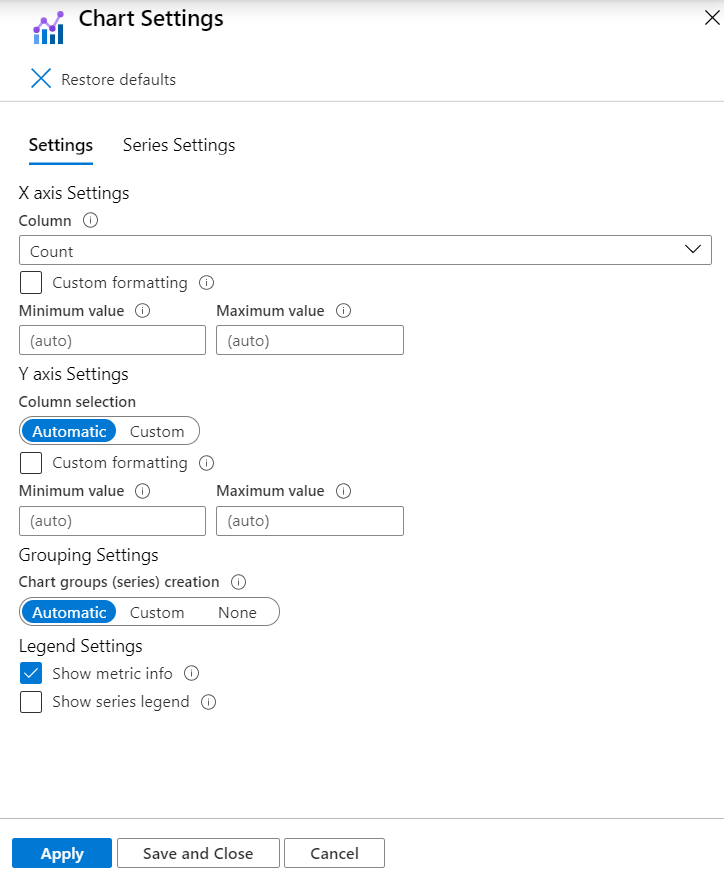
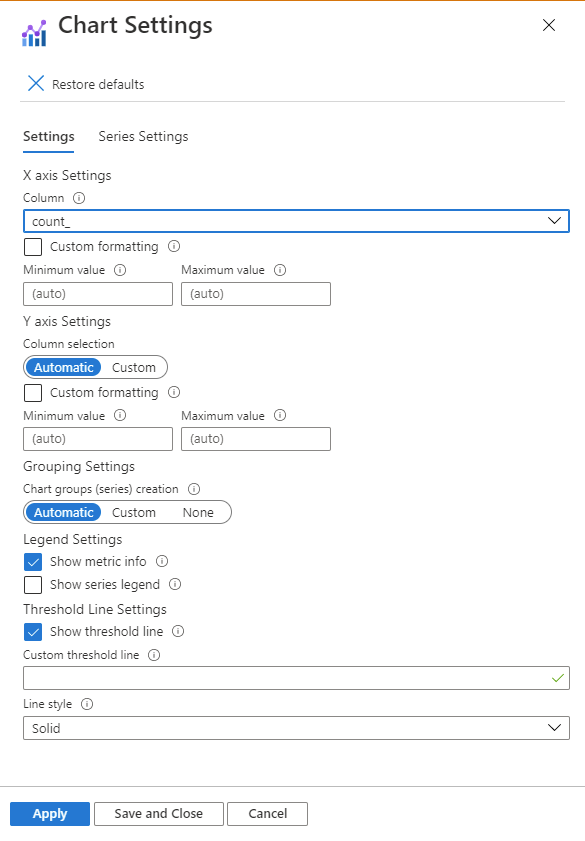
added documentation on threshold lines (#1366)
* added documentation on threshold lines

* updated the threshold documentation

* updated some wording

* cleaned up screen shots, updated wording

* added threshold settings to workbook schema

* replaced segmented bar chart screen shot with one including a threshold line

* edited out the query text

* added reference to threshold line on bar chart

* relative link?

* relative link fix

* relative link fix fix

diff --git a/Documentation/Visualizations/Chart.md b/Documentation/Visualizations/Chart.md
@@ -14,8 +14,8 @@ Workbooks supports charts for both analytics logs and metric data sources. Use t
 ### Segmented line chart
 ![Image showing a metric line chart for Storage transactions split by API name](../Images/MetricChart-Storage-Split-Line.png)
 
-### Segmented bar chart
-![Image showing a large metric bar chart for Storage transactions split by response type](../Images/MetricChart-Storage-Bar-Large.png)
+### Segmented bar chart ([Threshold Line enabled](#threshold-line))
+![Image showing a large metric bar chart for Storage transactions split by response type](../Images/MetricChart-Storage-Bar-Large-2.png)
 
 ### Scatter chart
 ![Image showing a metric scatter chart for Storage latency](../Images/MetricChart-Storage-Scatter.png)
@@ -35,6 +35,7 @@ The settings tab controls:
 * the axis settings, including which fields, custom formating that allows users to set the number formatting to the axis values, and custom ranges.
 * grouping settings, including which field, the limits before an "Others" group is created
 * legend settings, including showing metrics (series name, colors and numbers) at the bottom, and/or a legend (series names and colors)
+* threshold line settings
 
 ![Image showing chart settings series tab](../Images/ChartSettings.png)
 
@@ -42,6 +43,19 @@ The settings tab controls:
 The custom formatting is same as Grid's custom formatting except "Custom text for missing values" is not applicable for charts. More description [here](https://github.com/microsoft/Application-Insights-Workbooks/blob/master/Documentation/Visualizations/Grid.md#custom-formatting).
 
 ![Image showing custom format settings](../Images/NumberFormatSettings.png)
+
+#### Threshold Line
+Add a threshold line to the chart at a Y value that you define. Supported chart types include line, bar, bar categorical, area, scatter chart, and time chart. To enable the threshold line on the chart, check the "Show threshold line" checkbox and set the Y value in chart settings in the "Custom threshold line" field.
+
+![Image showing threshold line explicit setting](../Images/ThresholdLineSettingsManual.png)
+
+Alternatively, you can link the Y value to a workbook parameter by inputting the parameter name wrapped in curley brackets (eg. {thresholdParam1}). 
+
+![Image showing charts with threshold line enabled](../Images/ThresholdLineSettingsParam.png)
+
+The threshold line will be updated on the chart whenever the linked parameter value is changed.
+
+![Image showing chart with parameterized threshold line](../Images/ThresholdLineParamExample.png)
 
 ### The Series tab
 The series settings tab lets you adjust the labels and colors shown for series in the chart.
